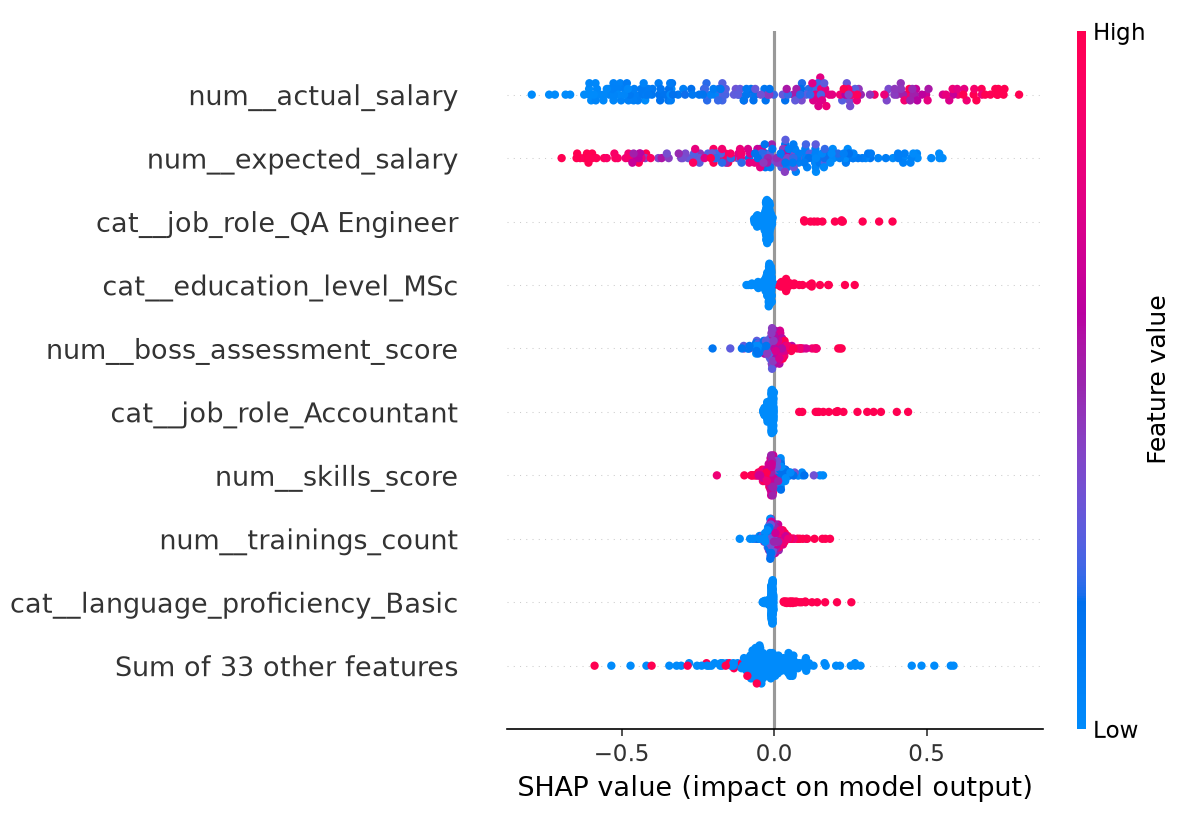
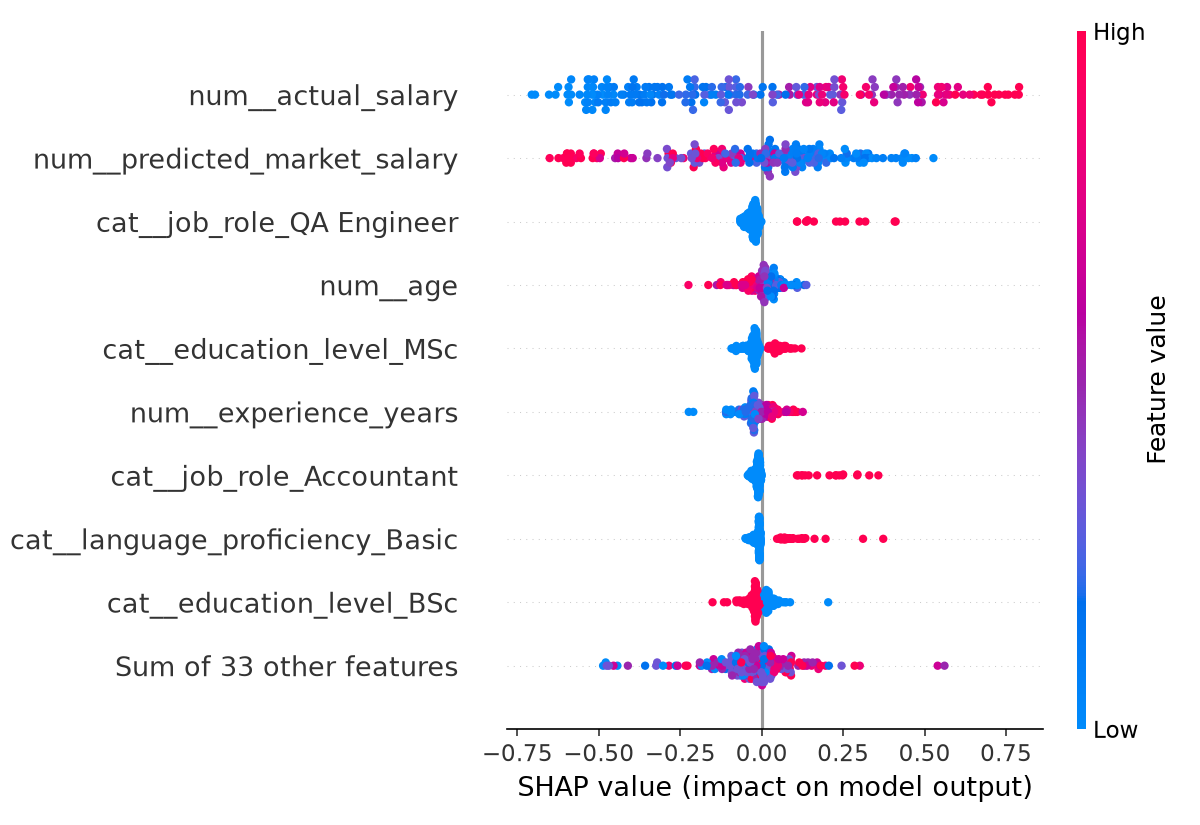
feat: predict actual_salary and train on multiple data files
Regression target moves from the generator-invented expected_salary to
actual_salary, so real rows can train it. The classifier now receives
the regressor's own prediction, removing the train/serve skew. --data
accepts several CSVs so real and survey rows append to the synthetic
base without mutating it.

diff --git a/ml/train_models.py b/ml/train_models.py
@@ -45,9 +45,9 @@ NUMERIC_FEATURES = [
     "age", "experience_years", "publications_count", "projects_led_count",
     "trainings_count", "skills_score", "boss_assessment_score",
 ]
-REGRESSION_TARGET = "expected_salary"
+REGRESSION_TARGET = "actual_salary"
 CLASSIFICATION_TARGET = "satisfaction_label"
-CLASSIFICATION_EXTRA_NUMERIC = ["actual_salary", "expected_salary"]
+CLASSIFICATION_EXTRA_NUMERIC = ["actual_salary", "predicted_market_salary"]
 
 RANDOM_STATE = 42
 
@@ -104,8 +104,8 @@ def run_regression(df, out_dir, artifacts_dir):
     print(f"Best model: {best_name}")
 
     explain_model(fitted[best_name], X_train, X_test, feature_names, out_dir, prefix="regression")
-    save_pipeline(preprocessor, fitted[best_name], artifacts_dir, "regression_model.joblib")
-    return results
+    pipeline = save_pipeline(preprocessor, fitted[best_name], artifacts_dir, "regression_model.joblib")
+    return results, pipeline
 
 
 def run_classification(df, out_dir, artifacts_dir):
@@ -156,6 +156,7 @@ def save_pipeline(preprocessor, estimator, artifacts_dir, filename):
     path = os.path.join(artifacts_dir, filename)
     joblib.dump(pipeline, path)
     print(f"Saved {path}")
+    return pipeline
 
 
 def explain_model(model, X_train, X_test, feature_names, out_dir, prefix):
@@ -179,16 +180,27 @@ def explain_model(model, X_train, X_test, feature_names, out_dir, prefix):
 
 def main():
     parser = argparse.ArgumentParser(description=__doc__)
-    parser.add_argument("--data", default="ml/data/synthetic_employee_compensation.csv")
+    parser.add_argument("--data", nargs="+", default=["ml/data/synthetic_employee_compensation.csv"])
     parser.add_argument("--out", default="ml/outputs")
     parser.add_argument("--artifacts", default="ml/artifacts")
     args = parser.parse_args()
 
     os.makedirs(args.out, exist_ok=True)
     os.makedirs(args.artifacts, exist_ok=True)
-    df = pd.read_csv(args.data)
+    frames = [pd.read_csv(path) for path in args.data]
+    df = pd.concat(frames, ignore_index=True)
+    print(f"Loaded {len(df)} rows from {len(frames)} file(s): {', '.join(args.data)}")
 
-    reg_results = run_regression(df, args.out, args.artifacts)
+    reg_results, reg_pipeline = run_regression(df, args.out, args.artifacts)
+
+    # Train the classifier on the SAME signal it will be served at runtime:
+    # the regression model's prediction, not the generator's expected_salary.
+    # For the 80% of rows the regressor trained on this is in-sample, which
+    # flatters the classifier slightly; acceptable for a prototype.
+    df["predicted_market_salary"] = reg_pipeline.predict(
+        df[CATEGORICAL_FEATURES + NUMERIC_FEATURES]
+    )
+
     clf_results = run_classification(df, args.out, args.artifacts)
 
     comparison_path = os.path.join(args.out, "model_comparison.csv")

diff --git a/compensation/data.py b/compensation/data.py
@@ -53,7 +53,7 @@ FEATURE_LABELS = {
     "skills_score": "Skills score",
     "boss_assessment_score": "Boss assessment",
     "actual_salary": "Actual salary",
-    "expected_salary": "Predicted fair salary",
+    "predicted_market_salary": "Predicted market salary",
 }
 
 _roster_cache = None
@@ -183,7 +183,7 @@ def _build_roster():
     predicted_salary = _predict_salary(regression_pipeline, df)
 
     clf_input = df.copy()
-    clf_input["expected_salary"] = predicted_salary
+    clf_input["predicted_market_salary"] = predicted_salary
     satisfaction_probability = _predict_satisfaction(classification_pipeline, clf_input)
 
     roster = []
@@ -225,7 +225,7 @@ def get_employee_detail(employee_id):
     regression_factors = top_factors(regression_pipeline, row_df[CATEGORICAL_FEATURES + NUMERIC_FEATURES])
 
     clf_row = row_df.copy()
-    clf_row["expected_salary"] = employee["predicted_salary"]
+    clf_row["predicted_market_salary"] = employee["predicted_salary"]
     classification_factors = top_factors(
         classification_pipeline, clf_row[CATEGORICAL_FEATURES + NUMERIC_FEATURES + CLASSIFICATION_EXTRA_NUMERIC]
     )
@@ -264,7 +264,7 @@ def predict_profile(profile):
     if profile.get("proposed_salary") is not None:
         clf_row = row_df.copy()
         clf_row["actual_salary"] = profile["proposed_salary"]
-        clf_row["expected_salary"] = predicted_salary
+        clf_row["predicted_market_salary"] = predicted_salary
         probability = round(float(_predict_satisfaction(classification_pipeline, clf_row)[0]), 2)
         result["satisfaction_probability"] = probability
         level = risk_level(probability)

diff --git a/ml/features.py b/ml/features.py
@@ -14,4 +14,4 @@ NUMERIC_FEATURES = [
     "age", "experience_years", "publications_count", "projects_led_count",
     "trainings_count", "skills_score", "boss_assessment_score",
 ]
-CLASSIFICATION_EXTRA_NUMERIC = ["actual_salary", "expected_salary"]
+CLASSIFICATION_EXTRA_NUMERIC = ["actual_salary", "predicted_market_salary"]
